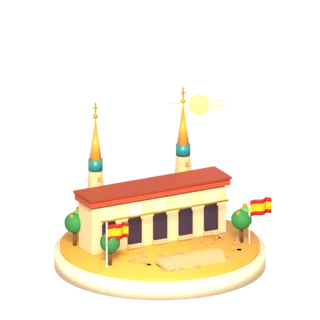
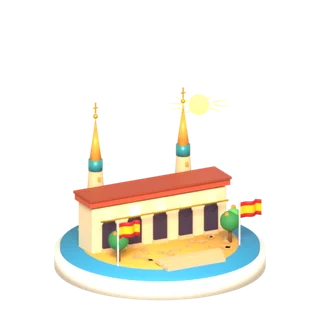
Španělská památka: podstavec jako jezírko u ostatních
Podstavec je modrá voda s bílým okrajem a na ní pevnina s náměstím, stejně jako
u Sydney. Kolem pevniny se animují vlnky. Přerenderován strip a statický náhled.

Claude-Session: https://claude.ai/code/session_01HSmZZX6TPQEuFc7qKAET6K

Changed region(s): [[0.1562, 0.5938, 0.875, 0.9375], [0.5312, 0.75, 0.5625, 0.7812]]

diff --git a/umime-art/blender/znacky_spanelsko.py b/umime-art/blender/znacky_spanelsko.py
@@ -6,7 +6,12 @@ sys.path.insert(0, os.path.dirname(__file__))
 from znacky_lib import *
 
 sc = setup("znacka_spanelstina", ortho=4.0, target_z=1.15, world=("#ffe9c9", 0.7))
-plinth("#e8b04a", "#fff3dc")
+# podstavec je jezírko jako u ostatních památek: modrá voda s bílým okrajem, na ní pevnina s náměstím
+water = material("water", "#2f9fd8", roughness=0.15)
+water_l = material("water_l", "#7fd6f5", roughness=0.2)
+plinth("#2f9fd8", "#ffffff")
+land = material("land", "#e8b04a", roughness=0.75)
+cyl((0, 0, 0.0), 0.98, 0.12, land, verts=64)  # vrch pevniny na Z0 + 0.02
 
 stucco = stone_material("stucco", "#f4e3c1", scale=30, strength=0.2)
 stucco_d = stone_material("stucco_d", "#e2c79c", scale=30, strength=0.22)
@@ -27,7 +32,7 @@ win = [glow("win%d" % i, "#ffd98a", 3.0) for i in range(5)]
 Z0 = 0.04  # horní hrana podstavce, na které stojí všechno
 
 # --- terén: dlažba a schody před arkádou ---
-cobbles(1.05, 80, cobble, z=Z0 + 0.01)
+cobbles(0.9, 80, cobble, z=Z0 + 0.03)
 for i in range(3):
     box((0, -0.78 - i * 0.07, Z0 + 0.025 * (2 - i) + 0.02), (0.9 - i * 0.04, 0.12, 0.05), stucco_d, bevel=0.006)
 
@@ -57,14 +62,15 @@ for x in TOWERS:
     bar((x - 0.03, 0.55, Z0 + 1.73), (x + 0.03, 0.55, Z0 + 1.73), 0.007, gold, verts=6)
 
 # --- pomerančovníky s plody po obou stranách ---
-for sx, sy in ((-1, -0.42), (1, -0.42), (-1.04, 0.45)):
-    tree(sx * 0.93, sy, 1.0, z=Z0, kind="round", leaf="#2f8f4f", trunk="#7a5636")
+for sx, sy in ((-1, -0.42), (1, -0.42), (-0.8, 0.45)):
+    tx = sx * 0.78 if sx > -0.9 else sx * 0.8
+    tree(tx, sy * 0.95, 1.0, z=Z0, kind="round", leaf="#2f8f4f", trunk="#7a5636")
     for dx, dy, dz in ((0.07, 0.04, 0.46), (-0.06, -0.03, 0.4), (0.02, 0.07, 0.34)):
-        sphere((sx * 0.93 + dx, sy + dy, Z0 + dz), 0.03, orange, seg=8, rings=6)
+        sphere((tx + dx, sy * 0.95 + dy, Z0 + dz), 0.03, orange, seg=8, rings=6)
 
 # --- dvě vlající španělské vlajky (červená, žlutá, červená) na tyčích ---
 flags = []
-for x in (-1.02, 1.0):
+for x in (-0.86, 0.86):
     pole((x, -0.5, Z0), (x, -0.5, Z0 + 0.6), r=0.012, ball=False)
     flags.append(Flag((x + 0.01, -0.5, Z0 + 0.56), 0.3, 0.2, [red, yellow], lambda u, v: 0 if v < 0.25 or v > 0.75 else 1, cols=16, rows=8, amp=0.05, waves=1.5, droop=0.01))
 
@@ -76,8 +82,17 @@ for k in range(10):
     RAYS.append(cone(SUN, 0.012, 0.0, 0.22, sun_m, verts=6))
 
 
+# vlnky na vodě kolem pevniny (jako u Sydney), mírně se zvedají a klesají
+ripples = []
+for i in range(7):
+    a = i * math.tau / 7 + 0.3
+    ripples.append((a, torus((1.12 * math.cos(a), 1.12 * math.sin(a) * 0.95, Z0 - 0.02), 0.1, 0.01, water_l)))
+
+
 def update(t):
     ph = t * math.tau
+    for k, (a, rp) in enumerate(ripples):
+        rp.location.z = Z0 - 0.02 + 0.012 * math.sin(ph * 2 + k * 0.9)
     # pulzující slunce a paprsky, které se točí kolem něj
     set_glow(sun_m, 4.0 + 2.0 * math.sin(ph * 2) ** 2)
     for k, ray in enumerate(RAYS):
